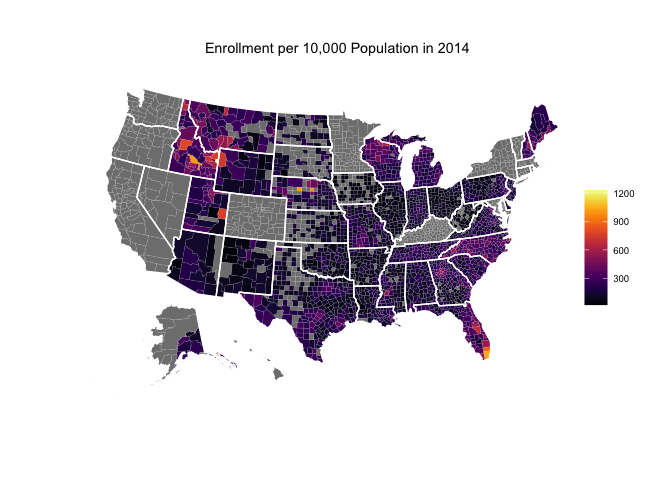
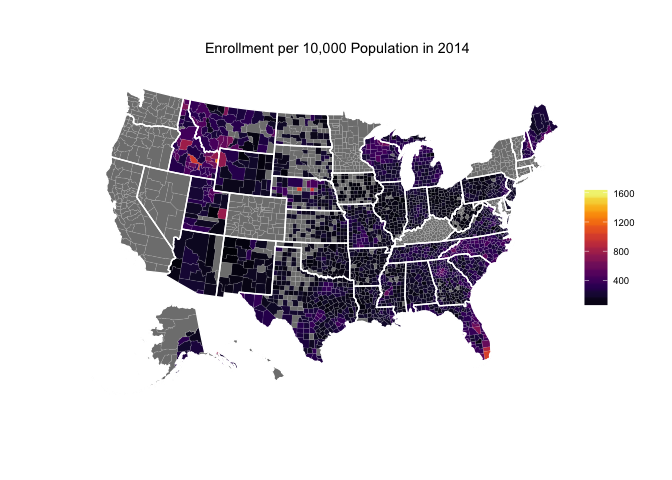
Adjust scale_fill

diff --git a/README.md b/README.md
@@ -1,3 +1,4 @@
+
 <!-- README.md is generated from README.Rmd. Please edit that file -->
 [![Travis-CI Build Status](https://travis-ci.org/jjchern/qhp.svg?branch=master)](https://travis-ci.org/jjchern/qhp)
 
@@ -51,7 +52,7 @@ qhp::enrollment2014
 #> Source: local data frame [29,685 x 8]
 #> 
 #>    ZipCode     StateName PlanSelections  zcta state countygeoid
-#>      (int)         (chr)          (int) (int) (chr)       (int)
+#>      <int>         <chr>          <int> <int> <chr>       <int>
 #> 1     3031 New Hampshire            332  3031    NH       33011
 #> 2     3032 New Hampshire            150  3032    NH       33015
 #> 3     3033 New Hampshire            151  3033    NH       33011
@@ -63,12 +64,12 @@ qhp::enrollment2014
 #> 9     3041 New Hampshire             NA  3038    NH       33015
 #> 10    3042 New Hampshire            195  3042    NH       33015
 #> ..     ...           ...            ...   ...   ...         ...
-#> Variables not shown: countyname (chr), copop (int)
+#> Variables not shown: countyname <chr>, copop <int>.
 qhp::enrollment2015
 #> Source: local data frame [14,619 x 8]
 #> 
 #>    ZipCode     StateName PlanSelections  zcta state countygeoid
-#>      (int)         (chr)          (int) (int) (chr)       (int)
+#>      <int>         <chr>          <int> <int> <chr>       <int>
 #> 1     3031 New Hampshire            471  3031    NH       33011
 #> 2     3032 New Hampshire            215  3032    NH       33015
 #> 3     3033 New Hampshire            228  3033    NH       33011
@@ -80,7 +81,7 @@ qhp::enrollment2015
 #> 9     3043 New Hampshire             79  3043    NH       33011
 #> 10    3044 New Hampshire            172  3044    NH       33015
 #> ..     ...           ...            ...   ...   ...         ...
-#> Variables not shown: countyname (chr), copop (int)
+#> Variables not shown: countyname <chr>, copop <int>.
 ```
 
 Top 10 Counties, Sorted According to Total Enrollment
@@ -99,7 +100,7 @@ qhp::enrollment2014 %>%
 #> Source: local data frame [2,237 x 5]
 #> 
 #>    countygeoid          countyname enrollment state   copop
-#>          (int)               (chr)      (int) (chr)   (int)
+#>          <int>               <chr>      <int> <chr>   <int>
 #> 1        12086   Miami-Dade County     256975    FL 2496435
 #> 2        12011      Broward County     152745    FL 1748066
 #> 3        48201       Harris County     139424    TX 4092459
@@ -124,7 +125,7 @@ qhp::enrollment2015 %>%
 #> Source: local data frame [2,425 x 5]
 #> 
 #>    countygeoid        countyname enrollment state   copop
-#>          (int)             (chr)      (int) (chr)   (int)
+#>          <int>             <chr>      <int> <chr>   <int>
 #> 1        12086 Miami-Dade County     392071    FL 2496435
 #> 2        48201     Harris County     228358    TX 4092459
 #> 3        12011    Broward County     221918    FL 1748066
@@ -151,24 +152,23 @@ qhp::enrollment2014 %>%
             state = first(state),
             copop = first(copop)) %>% 
   mutate(enroll_per100000 = enrollment / copop * 10000) %>% 
-  # filter(copop >= 100000) %>% 
+  filter(copop >= 100000) %>% 
   arrange(desc(enroll_per100000))
-#> Source: local data frame [2,237 x 6]
+#> Source: local data frame [425 x 6]
 #> 
-#>    countygeoid           countyname enrollment state   copop
-#>          (int)                (chr)      (int) (chr)   (int)
-#> 1        16081         Teton County       1251    ID   10170
-#> 2        12086    Miami-Dade County     256975    FL 2496435
-#> 3        31171        Thomas County         65    NE     647
-#> 4        16013        Blaine County       2142    ID   21376
-#> 5        31071      Garfield County        202    NE    2049
-#> 6         2230 Skagway Municipality         95    AK     968
-#> 7        12011       Broward County     152745    FL 1748066
-#> 8        16085        Valley County        776    ID    9862
-#> 9        49019         Grand County        706    UT    9225
-#> 10       16043       Fremont County       1002    ID   13242
-#> ..         ...                  ...        ...   ...     ...
-#> Variables not shown: enroll_per100000 (dbl)
+#>    countygeoid        countyname enrollment state   copop enroll_per100000
+#>          <int>             <chr>      <int> <chr>   <int>            <dbl>
+#> 1        12086 Miami-Dade County     256975    FL 2496435        1029.3679
+#> 2        12011    Broward County     152745    FL 1748066         873.7942
+#> 3        12097    Osceola County      18655    FL  268685         694.3075
+#> 4        16019 Bonneville County       6427    ID  104234         616.5934
+#> 5        12095     Orange County      66862    FL 1145956         583.4604
+#> 6        12099 Palm Beach County      75851    FL 1320134         574.5705
+#> 7        37021   Buncombe County      13567    NC  238318         569.2814
+#> 8        28049      Hinds County      13648    MS  245285         556.4140
+#> 9        13089     DeKalb County      37971    GA  691893         548.7987
+#> 10       13135   Gwinnett County      42625    GA  805321         529.2920
+#> ..         ...               ...        ...   ...     ...              ...
 
 # 2015
 qhp::enrollment2015 %>% 
@@ -179,24 +179,23 @@ qhp::enrollment2015 %>%
             state = first(state),
             copop = first(copop)) %>% 
   mutate(enroll_per100000 = enrollment / copop * 10000) %>% 
-  # filter(copop >= 100000) %>% 
+  filter(copop >= 100000) %>% 
   arrange(desc(enroll_per100000))
-#> Source: local data frame [2,425 x 6]
+#> Source: local data frame [432 x 6]
 #> 
-#>    countygeoid           countyname enrollment state   copop
-#>          (int)                (chr)      (int) (chr)   (int)
-#> 1         2230 Skagway Municipality        161    AK     968
-#> 2        31071      Garfield County        322    NE    2049
-#> 3        12086    Miami-Dade County     392071    FL 2496435
-#> 4        31171        Thomas County         99    NE     647
-#> 5        31091        Hooker County         95    NE     736
-#> 6        12011       Broward County     221918    FL 1748066
-#> 7        56039         Teton County       2615    WY   21294
-#> 8        12097       Osceola County      31642    FL  268685
-#> 9        51640           Galax city        823    VA    7042
-#> 10       49019         Grand County       1028    UT    9225
-#> ..         ...                  ...        ...   ...     ...
-#> Variables not shown: enroll_per100000 (dbl)
+#>    countygeoid        countyname enrollment state   copop enroll_per100000
+#>          <int>             <chr>      <int> <chr>   <int>            <dbl>
+#> 1        12086 Miami-Dade County     392071    FL 2496435        1570.5236
+#> 2        12011    Broward County     221918    FL 1748066        1269.5058
+#> 3        12097    Osceola County      31642    FL  268685        1177.6616
+#> 4        12099 Palm Beach County     136989    FL 1320134        1037.6901
+#> 5        12095     Orange County     111125    FL 1145956         969.7144
+#> 6        37021   Buncombe County      20936    NC  238318         878.4901
+#> 7        13135   Gwinnett County      69010    GA  805321         856.9254
+#> 8        13089     DeKalb County      56580    GA  691893         817.7565
+#> 9        28049      Hinds County      19949    MS  245285         813.2988
+#> 10       12111  St. Lucie County      22078    FL  277789         794.7759
+#> ..         ...               ...        ...   ...     ...              ...
 ```
 
 Enrolloment per 10,000 Residents by counties
@@ -219,7 +218,7 @@ qhp::enrollment2014 %>%
 #> Source: local data frame [36 x 3]
 #> 
 #>    state      statename enrollment
-#>    (chr)          (chr)      (int)
+#>    <chr>          <chr>      <int>
 #> 1     FL        Florida     979721
 #> 2     TX          Texas     719657
 #> 3     NC North Carolina     352841
@@ -268,7 +267,7 @@ qhp::enrollment2015 %>%
 #> Source: local data frame [37 x 3]
 #> 
 #>    state      statename enrollment
-#>    (chr)          (chr)      (int)
+#>    <chr>          <chr>      <int>
 #> 1     FL        Florida    1591227
 #> 2     TX          Texas    1192085
 #> 3     NC North Carolina     556319
@@ -316,7 +315,7 @@ qhp::qhp2014
 #> Source: local data frame [81,015 x 130]
 #> 
 #>    state         county metal_level
-#>    (chr)          (chr)       (chr)
+#>    <chr>          <chr>       <chr>
 #> 1     AK ALEUTIANS EAST      Bronze
 #> 2     AK ALEUTIANS EAST      Silver
 #> 3     AK ALEUTIANS EAST        Gold
@@ -328,88 +327,70 @@ qhp::qhp2014
 #> 9     AK ALEUTIANS EAST      Bronze
 #> 10    AK ALEUTIANS EAST      Silver
 #> ..   ...            ...         ...
-#> Variables not shown: issuer_name (chr), plan_id_standard_component (chr),
-#>   plan_marketing_name (chr), plan_type (chr), rating_area (chr),
-#>   child_only_offering (chr), source (chr),
-#>   customer_service_phone_number_local (chr),
-#>   customer_service_phone_number_toll_free (chr),
-#>   customer_service_phone_number_tty (chr), network_url (chr),
-#>   plan_brochure_url (chr), summary_of_benefits_url (chr),
-#>   drug_formulary_url (chr), adult_dental (dbl), child_dental (chr),
-#>   premium_scenarios (dbl), premium_child (dbl),
-#>   premium_adult_individual_age_21 (dbl), premium_adult_individual_age_27
-#>   (dbl), premium_adult_individual_age_30 (dbl),
-#>   premium_adult_individual_age_40 (dbl), premium_adult_individual_age_50
-#>   (dbl), premium_adult_individual_age_60 (dbl), premium_couple_21 (dbl),
-#>   premium_couple_30 (dbl), premium_couple_40 (dbl), premium_couple_50
-#>   (dbl), premium_couple_60 (dbl), couple_1_child_age_21 (dbl),
-#>   couple_1_child_age_30 (dbl), couple_1_child_age_40 (dbl),
-#>   couple_1_child_age_50 (dbl), couple_2_children_age_21 (dbl),
-#>   couple_2_children_age_30 (dbl), couple_2_children_age_40 (dbl),
-#>   couple_2_children_age_50 (dbl), couple_3_or_more_children_age_21 (dbl),
-#>   couple_3_or_more_children_age_30 (dbl), couple_3_or_more_children_age_40
-#>   (dbl), couple_3_or_more_children_age_50 (dbl), individual_1_child_age_21
-#>   (dbl), individual_1_child_age_30 (dbl), individual_1_child_age_40 (dbl),
-#>   individual_1_child_age_50 (dbl), individual_2_children_age_21 (dbl),
-#>   individual_2_children_age_30 (dbl), individual_2_children_age_40 (dbl),
-#>   individual_2_children_age_50 (dbl), individual_3_or_more_children_age_21
-#>   (dbl), individual_3_or_more_children_age_30 (dbl),
-#>   individual_3_or_more_children_age_40 (dbl),
-#>   individual_3_or_more_children_age_50 (dbl), standard_plan_cost_sharing
-#>   (dbl), medical_deductible_individual_standard (chr),
-#>   drug_deductible_individual_standard (chr),
-#>   medical_deductible_family_standard (chr),
-#>   drug_deductible_family_standard (chr),
-#>   medical_maximum_out_of_pocket_individual_standard (chr),
-#>   drug_maximum_out_of_pocket_individual_standard (chr),
-#>   medical_maximum_out_of_pocket_family_standard (chr),
-#>   drug_maximum_out_of_pocket_family_standard (chr),
-#>   primary_care_physician_standard (chr), specialist_standard (chr),
-#>   emergency_room_standard (chr), inpatient_facility_standard (chr),
-#>   inpatient_physician_standard (chr), generic_drugs_standard (chr),
-#>   preferred_brand_drugs_standard (chr), non_preferred_brand_drugs_standard
-#>   (chr), specialty_drugs_standard (chr),
-#>   73_percent_actuarial_value_silver_plan_cost_sharing (dbl),
-#>   medical_deductible_individual_73_percent (chr),
-#>   drug_deductible_individual_73_percent (chr),
-#>   medical_deductible_family_73_percent (chr),
-#>   drug_deductible_family_73_percent (chr),
-#>   medical_maximum_out_of_pocket_individual_73_percent (chr),
-#>   drug_maximum_out_of_pocket_individual_73_percent (chr),
-#>   medical_maximum_out_of_pocket_family_73_percent (chr),
-#>   drug_maximum_out_of_pocket_family_73_percent (chr),
-#>   primary_care_physician_73_percent (chr), specialist_73_percent (chr),
-#>   emergency_room_73_percent (chr), inpatient_facility_73_percent (chr),
-#>   inpatient_physician_73_percent (chr), generic_drugs_73_percent (chr),
-#>   preferred_brand_drugs_73_percent (chr),
-#>   non_preferred_brand_drugs_73_percent (chr), specialty_drugs_73_percent
-#>   (chr), 87_percent_actuarial_value_silver_plan_cost_sharing (dbl),
-#>   medical_deductible_individual_87_percent (chr),
-#>   drug_deductible_individual_87_percent (chr),
-#>   medical_deductible_family_87_percent (chr),
-#>   drug_deductible_family_87_percent (chr),
-#>   medical_maximum_out_of_pocket_individual_87_percent (chr),
-#>   drug_maximum_out_of_pocket_individual_87_percent (chr),
-#>   medical_maximum_out_of_pocket_family_87_percent (chr),
-#>   drug_maximum_out_of_pocket_family_87_percent (chr),
-#>   primary_care_physician_87_percent (chr), specialist_87_percent (chr),
-#>   emergency_room_87_percent (chr), inpatient_facility_87_percent (chr),
-#>   inpatient_physician_87_percent (chr), generic_drugs_87_percent (chr),
-#>   preferred_brand_drugs_87_percent (chr),
-#>   non_preferred_brand_drugs_87_percent (chr), specialty_drugs_87_percent
-#>   (chr), 94_percent_actuarial_value_silver_plan_cost_sharing (dbl),
-#>   medical_deductible_individual_94_percent (chr),
-#>   drug_deductible_individual_94_percent (chr),
-#>   medical_deductible_family_94_percent (chr),
-#>   drug_deductible_family_94_percent (chr),
-#>   medical_maximum_out_of_pocket_individual_94_percent (chr),
-#>   drug_maximum_out_of_pocket_individual_94_percent (chr),
-#>   medical_maximum_out_of_pocket_family_94_percent (chr),
-#>   drug_maximum_out_of_pocket_family_94_percent (chr),
-#>   primary_care_physician_94_percent (chr), specialist_94_percent (chr),
-#>   emergency_room_94_percent (chr), inpatient_facility_94_percent (chr),
-#>   inpatient_physician_94_percent (chr), generic_drugs_94_percent (chr),
-#>   preferred_brand_drugs_94_percent (chr),
-#>   non_preferred_brand_drugs_94_percent (chr), specialty_drugs_94_percent
-#>   (chr), fips (int), state.y (chr)
+#> Variables not shown: issuer_name <chr>, plan_id_standard_component <chr>,
+#>   plan_marketing_name <chr>, plan_type <chr>, rating_area <chr>,
+#>   child_only_offering <chr>, source <chr>,
+#>   customer_service_phone_number_local <chr>,
+#>   customer_service_phone_number_toll_free <chr>,
+#>   customer_service_phone_number_tty <chr>, network_url <chr>,
+#>   plan_brochure_url <chr>, summary_of_benefits_url <chr>,
+#>   drug_formulary_url <chr>, adult_dental <dbl>, child_dental <chr>,
+#>   premium_scenarios <dbl>, premium_child <dbl>,
+#>   premium_adult_individual_age_21 <dbl>, premium_adult_individual_age_27
+#>   <dbl>, premium_adult_individual_age_30 <dbl>,
+#>   premium_adult_individual_age_40 <dbl>, premium_adult_individual_age_50
+#>   <dbl>, premium_adult_individual_age_60 <dbl>, premium_couple_21 <dbl>,
+#>   premium_couple_30 <dbl>, premium_couple_40 <dbl>, premium_couple_50
+#>   <dbl>, premium_couple_60 <dbl>, couple_1_child_age_21 <dbl>,
+#>   couple_1_child_age_30 <dbl>, couple_1_child_age_40 <dbl>,
+#>   couple_1_child_age_50 <dbl>, couple_2_children_age_21 <dbl>,
+#>   couple_2_children_age_30 <dbl>, couple_2_children_age_40 <dbl>,
+#>   couple_2_children_age_50 <dbl>, couple_3_or_more_children_age_21 <dbl>,
+#>   couple_3_or_more_children_age_30 <dbl>, couple_3_or_more_children_age_40
+#>   <dbl>, couple_3_or_more_children_age_50 <dbl>, individual_1_child_age_21
+#>   <dbl>, individual_1_child_age_30 <dbl>, individual_1_child_age_40 <dbl>,
+#>   individual_1_child_age_50 <dbl>, individual_2_children_age_21 <dbl>,
+#>   individual_2_children_age_30 <dbl>, individual_2_children_age_40 <dbl>,
+#>   individual_2_children_age_50 <dbl>, individual_3_or_more_children_age_21
+#>   <dbl>, individual_3_or_more_children_age_30 <dbl>,
+#>   individual_3_or_more_children_age_40 <dbl>,
+#>   individual_3_or_more_children_age_50 <dbl>, standard_plan_cost_sharing
+#>   <dbl>, medical_deductible_individual_standard <chr>,
+#>   drug_deductible_individual_standard <chr>,
+#>   medical_deductible_family_standard <chr>,
+#>   drug_deductible_family_standard <chr>,
+#>   medical_maximum_out_of_pocket_individual_standard <chr>,
+#>   drug_maximum_out_of_pocket_individual_standard <chr>,
+#>   medical_maximum_out_of_pocket_family_standard <chr>,
+#>   drug_maximum_out_of_pocket_family_standard <chr>,
+#>   primary_care_physician_standard <chr>, specialist_standard <chr>,
+#>   emergency_room_standard <chr>, inpatient_facility_standard <chr>,
+#>   inpatient_physician_standard <chr>, generic_drugs_standard <chr>,
+#>   preferred_brand_drugs_standard <chr>, non_preferred_brand_drugs_standard
+#>   <chr>, specialty_drugs_standard <chr>,
+#>   73_percent_actuarial_value_silver_plan_cost_sharing <dbl>,
+#>   medical_deductible_individual_73_percent <chr>,
+#>   drug_deductible_individual_73_percent <chr>,
+#>   medical_deductible_family_73_percent <chr>,
+#>   drug_deductible_family_73_percent <chr>,
+#>   medical_maximum_out_of_pocket_individual_73_percent <chr>,
+#>   drug_maximum_out_of_pocket_individual_73_percent <chr>,
+#>   medical_maximum_out_of_pocket_family_73_percent <chr>,
+#>   drug_maximum_out_of_pocket_family_73_percent <chr>,
+#>   primary_care_physician_73_percent <chr>, specialist_73_percent <chr>,
+#>   emergency_room_73_percent <chr>, inpatient_facility_73_percent <chr>,
+#>   inpatient_physician_73_percent <chr>, generic_drugs_73_percent <chr>,
+#>   preferred_brand_drugs_73_percent <chr>,
+#>   non_preferred_brand_drugs_73_percent <chr>, specialty_drugs_73_percent
+#>   <chr>, 87_percent_actuarial_value_silver_plan_cost_sharing <dbl>,
+#>   medical_deductible_individual_87_percent <chr>,
+#>   drug_deductible_individual_87_percent <chr>,
+#>   medical_deductible_family_87_percent <chr>,
+#>   drug_deductible_family_87_percent <chr>,
+#>   medical_maximum_out_of_pocket_individual_87_percent <chr>,
+#>   drug_maximum_out_of_pocket_individual_87_percent <chr>,
+#>   medical_maximum_out_of_pocket_family_87_percent <chr>,
+#>   drug_maximum_out_of_pocket_family_87_percent <chr>,
+#>   primary_care_physician_87_percent <chr>, specialist_87_percent <chr>,
+#>   and 27 more <...>.
 ```
